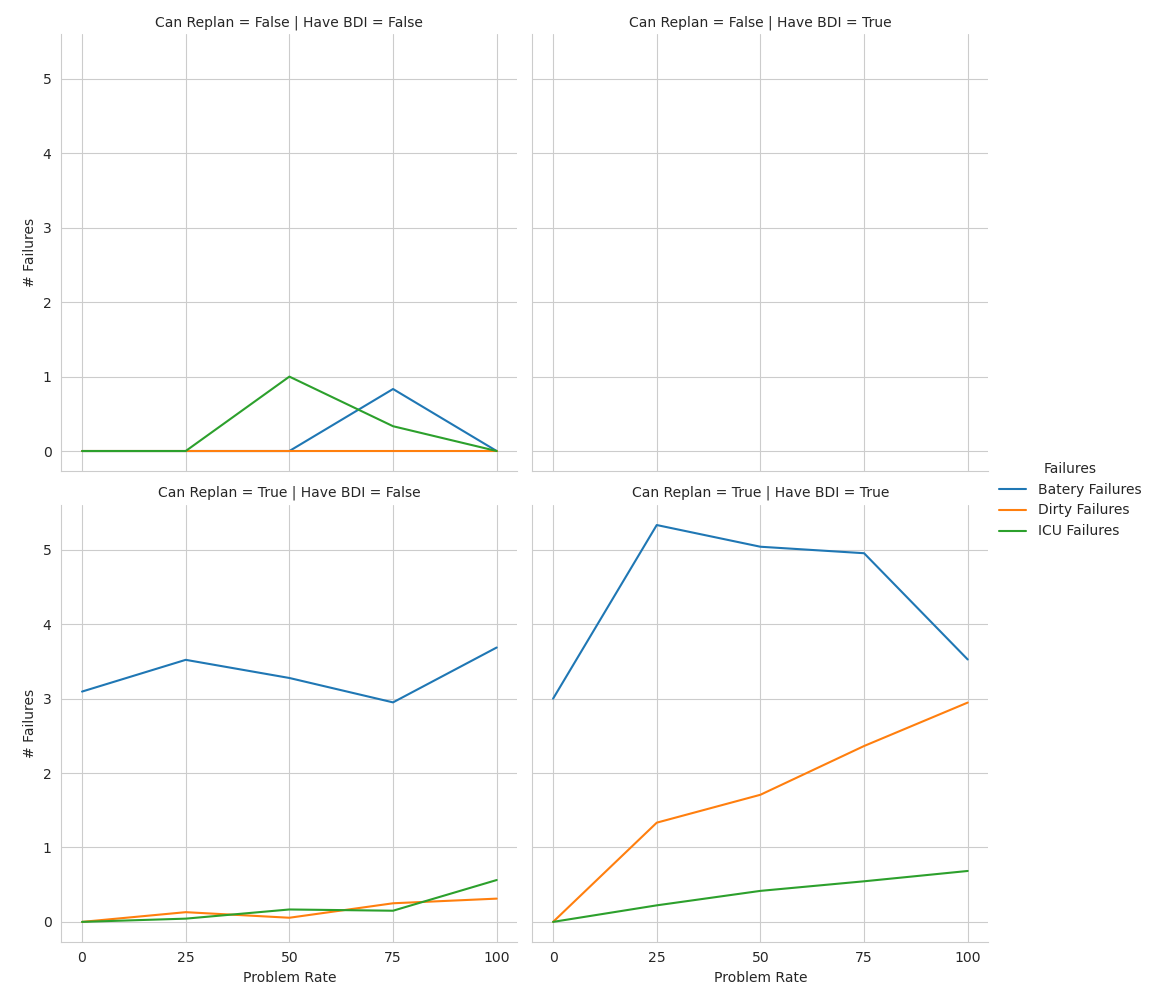
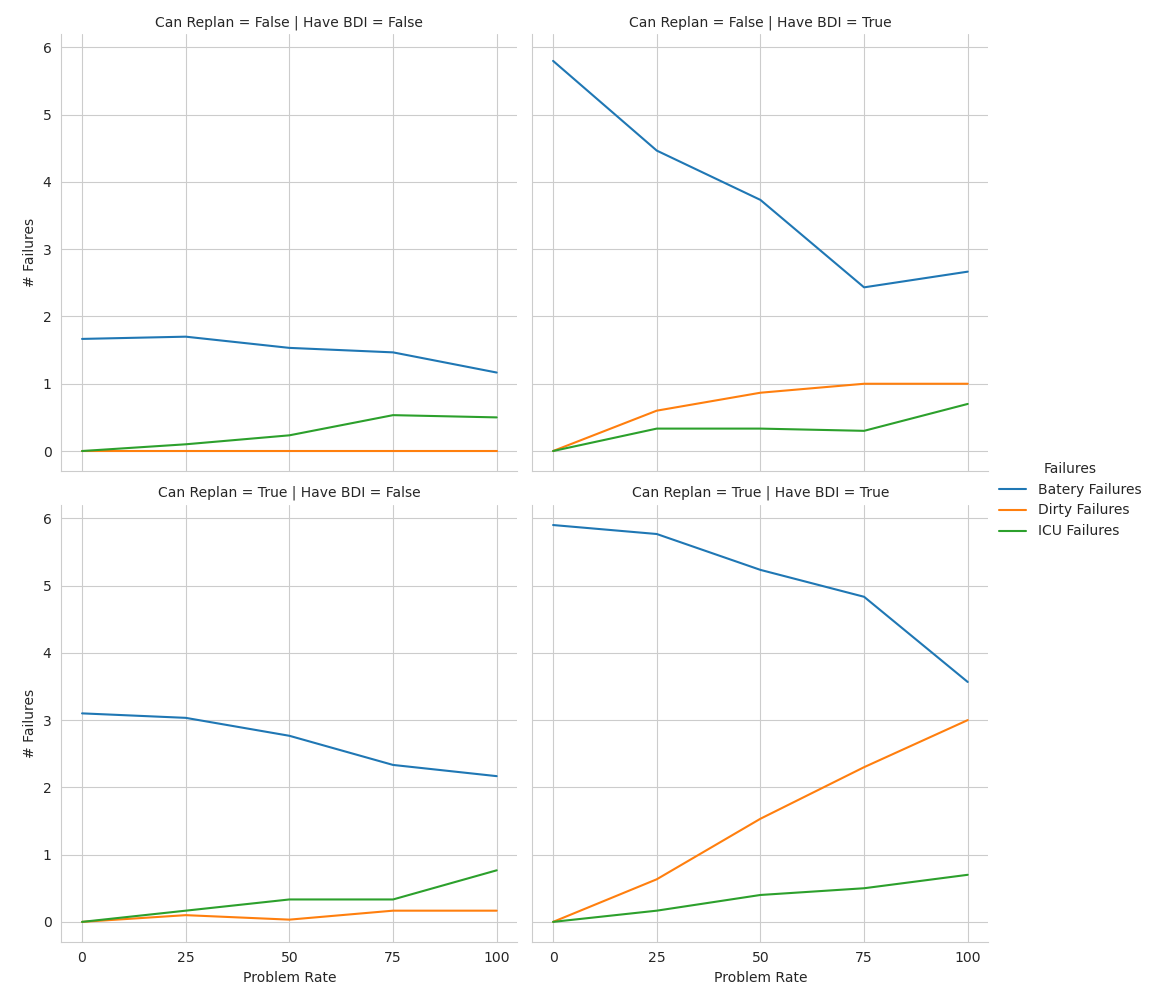
plots

diff --git a/analyze_results_disinfect.py b/analyze_results_disinfect.py
@@ -157,9 +157,9 @@ def main():
         print("No data found.")
         return
     
-    df_filtered = df[np.isclose(df["Runtime (s)"], 40)]
+    # df_filtered = df[np.isclose(df["Runtime (s)"], 40)]
     
-    summary = df_filtered.groupby(["Problem Rate", "Have BDI", "Can Replan"], as_index=False).agg({
+    summary = df.groupby(["Problem Rate", "Have BDI", "Can Replan"], as_index=False).agg({
         "Runtime (s)": "mean",
         "Batery Failures": "mean",
         "Dirty Failures": "mean",
